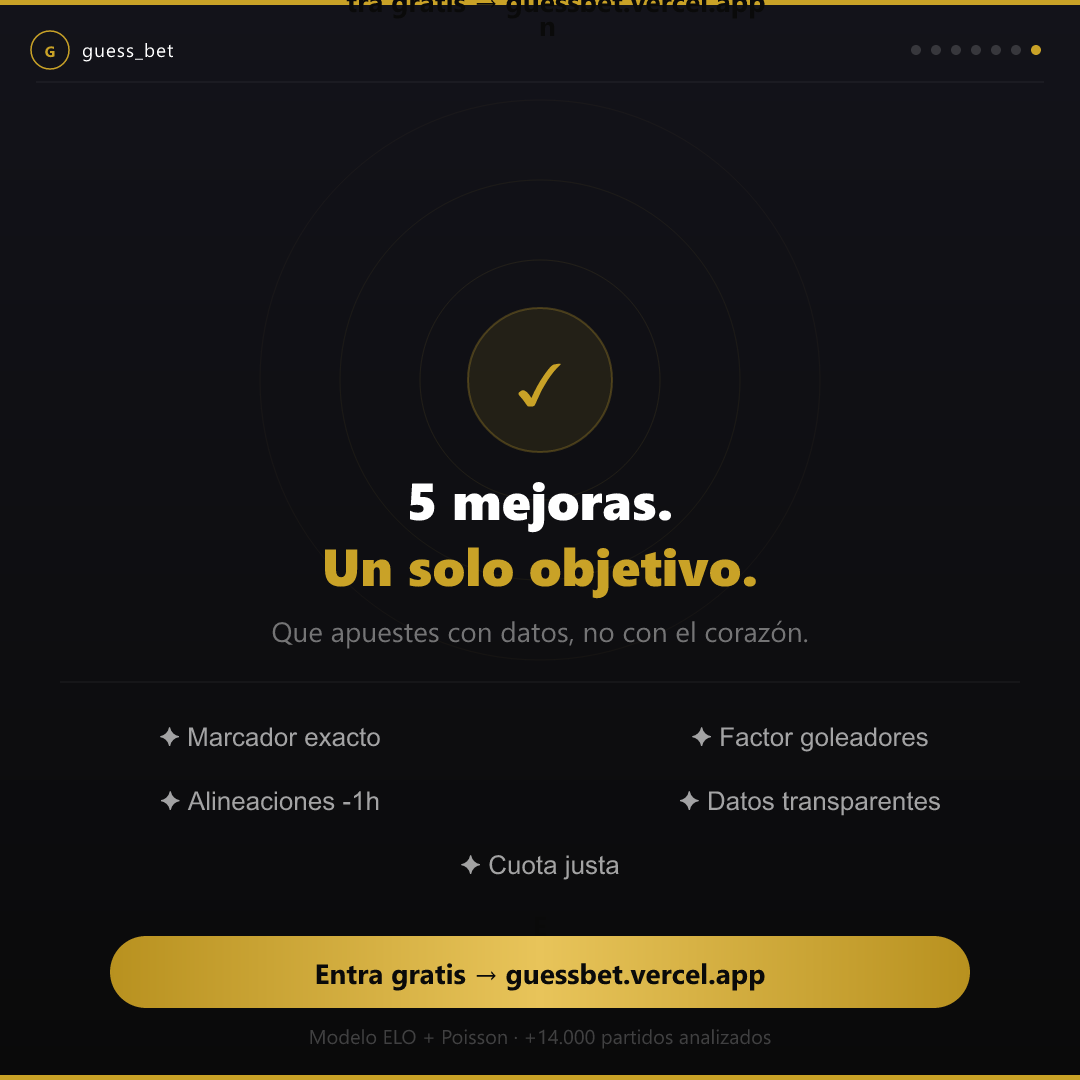
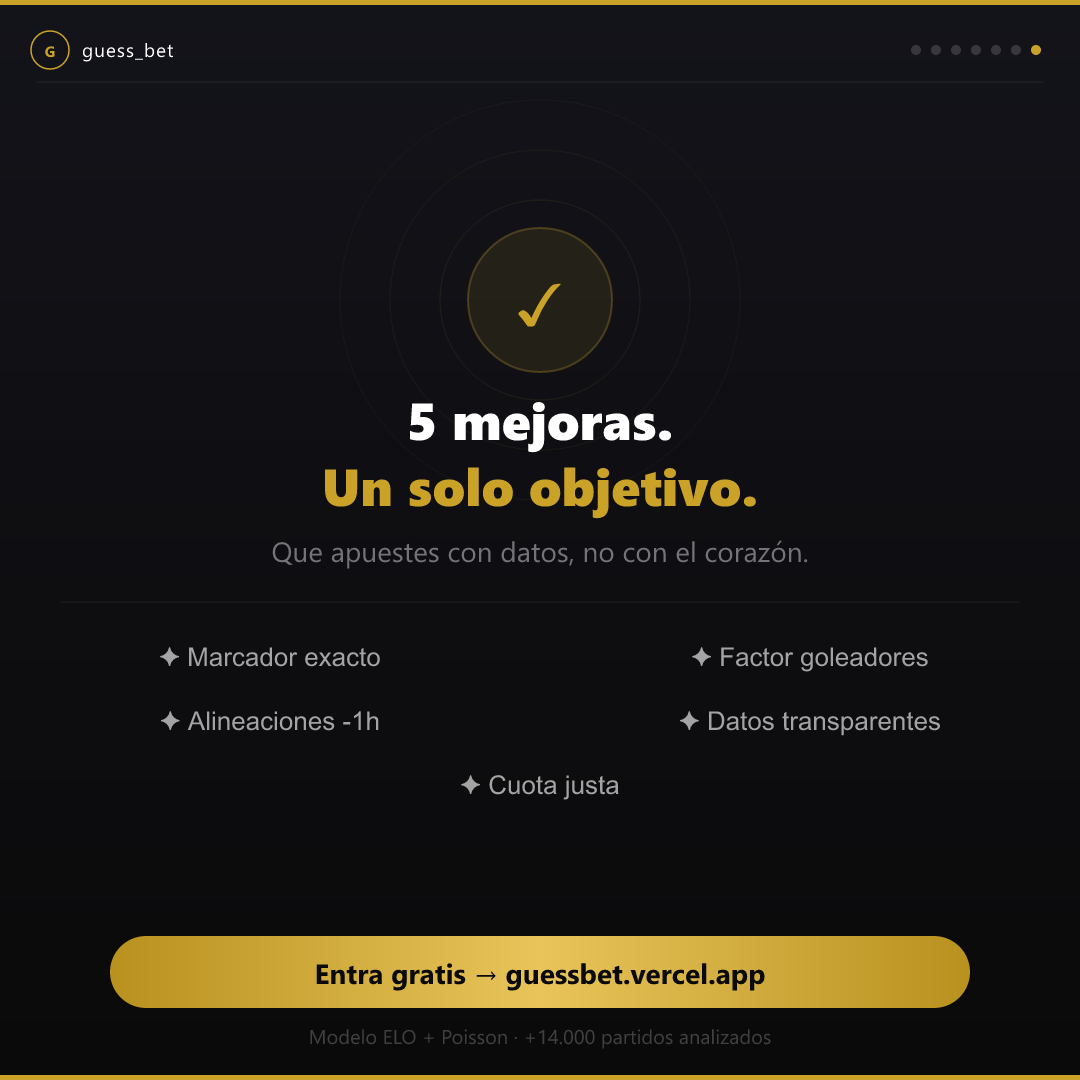
fix: slide7 texto duplicado con y literal causaba overflow en la parte superior

diff --git a/scripts/build_ig_carrusel_novedades.py b/scripts/build_ig_carrusel_novedades.py
@@ -141,8 +141,8 @@ def feature_slide(slide_idx, num_label, emoji, title1, title2, hook, body_bullet
 def slide_cta():
     parts = [svg_open(), header_row(6)]
 
-    cy = 380
-    for r, op in [(280,0.04),(200,0.06),(120,0.09)]:
+    cy = 300
+    for r, op in [(200,0.04),(150,0.06),(100,0.09)]:
         parts.append(f'<circle cx="{W//2}" cy="{cy}" r="{r}" fill="none" stroke="rgba(201,162,39,{op})" stroke-width="1"/>')
     parts.append(f'<circle cx="{W//2}" cy="{cy}" r="72" fill="rgba(201,162,39,0.10)" stroke="rgba(201,162,39,0.28)" stroke-width="2"/>')
     parts.append(f'<text x="{W//2}" y="{cy+26}" font-family="{FONT}" font-size="60" font-weight="900" fill="{GOLD}" text-anchor="middle">✓</text>')
@@ -162,7 +162,6 @@ def slide_cta():
     bw, bh = 860, 72
     bx = (W-bw)//2
     parts.append(f'<rect x="{bx}" y="936" width="{bw}" height="{bh}" rx="36" fill="url(#gold)"/>')
-    parts.append(f'<text x="{W//2}" y="936+{bh//2}+12" font-family="{FONT}" font-size="28" font-weight="700" fill="#0a0a0a" text-anchor="middle">Entra gratis → guessbet.vercel.app</text>')
     parts.append(f'<text x="{W//2}" y="{936 + bh//2 + 12}" font-family="{FONT}" font-size="28" font-weight="700" fill="#0a0a0a" text-anchor="middle">Entra gratis → guessbet.vercel.app</text>')
 
     parts.append(f'<text x="{W//2}" y="1044" font-family="{FONT}" font-size="20" fill="rgba(255,255,255,0.22)" text-anchor="middle">Modelo ELO + Poisson · +14.000 partidos analizados</text>')